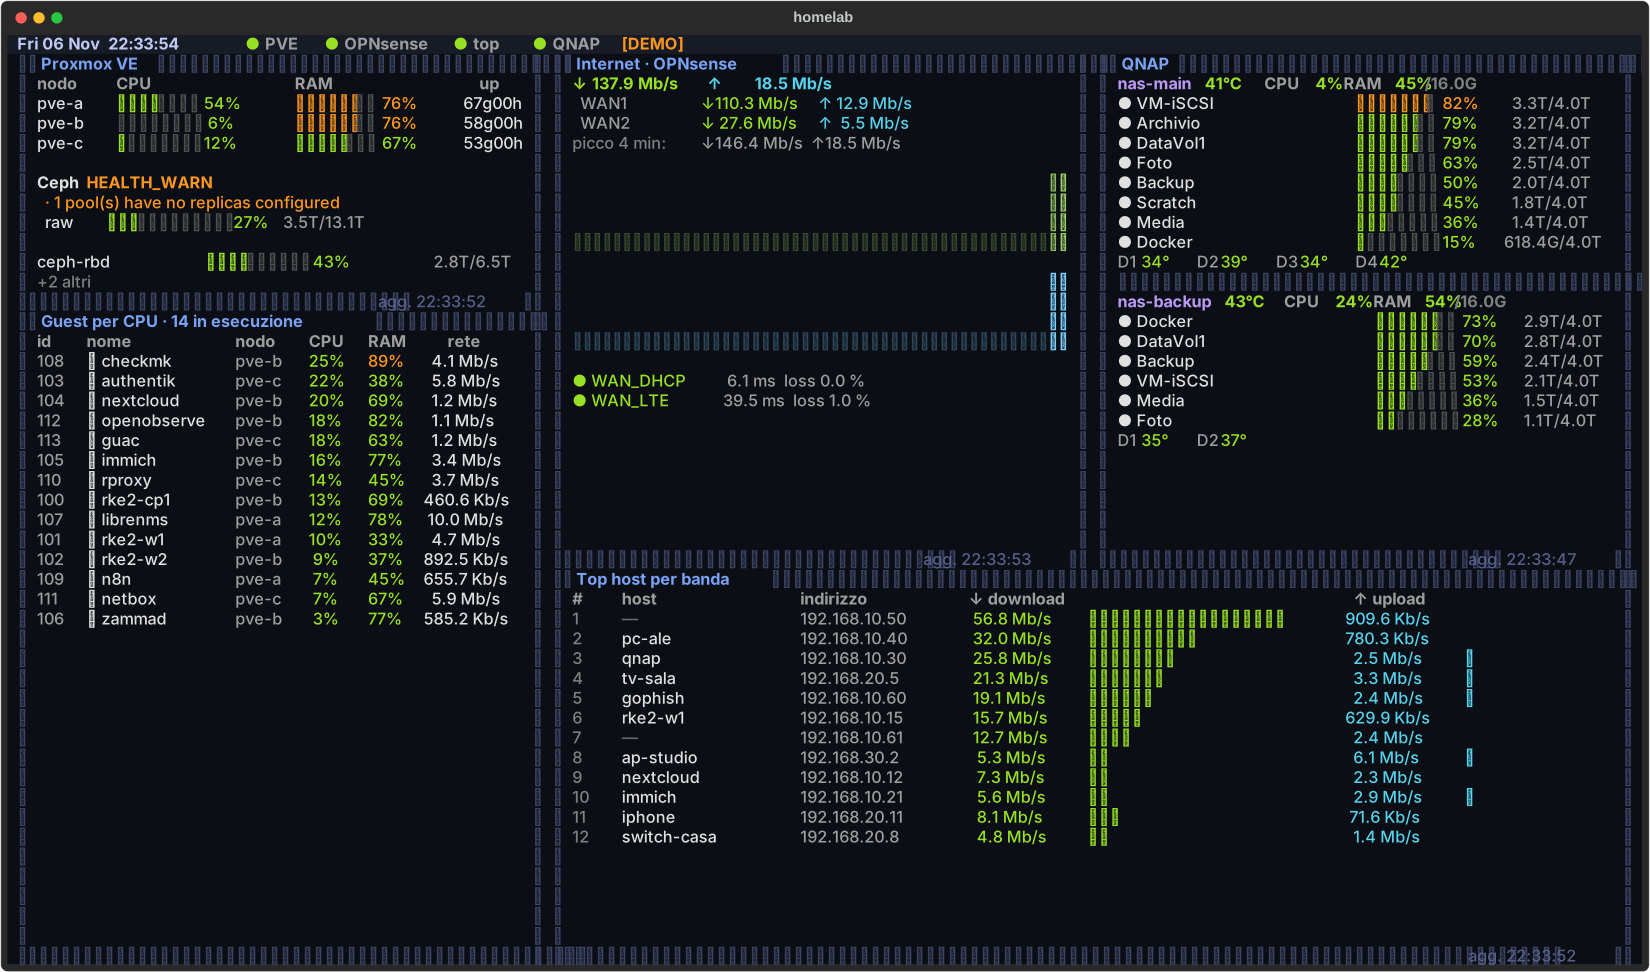
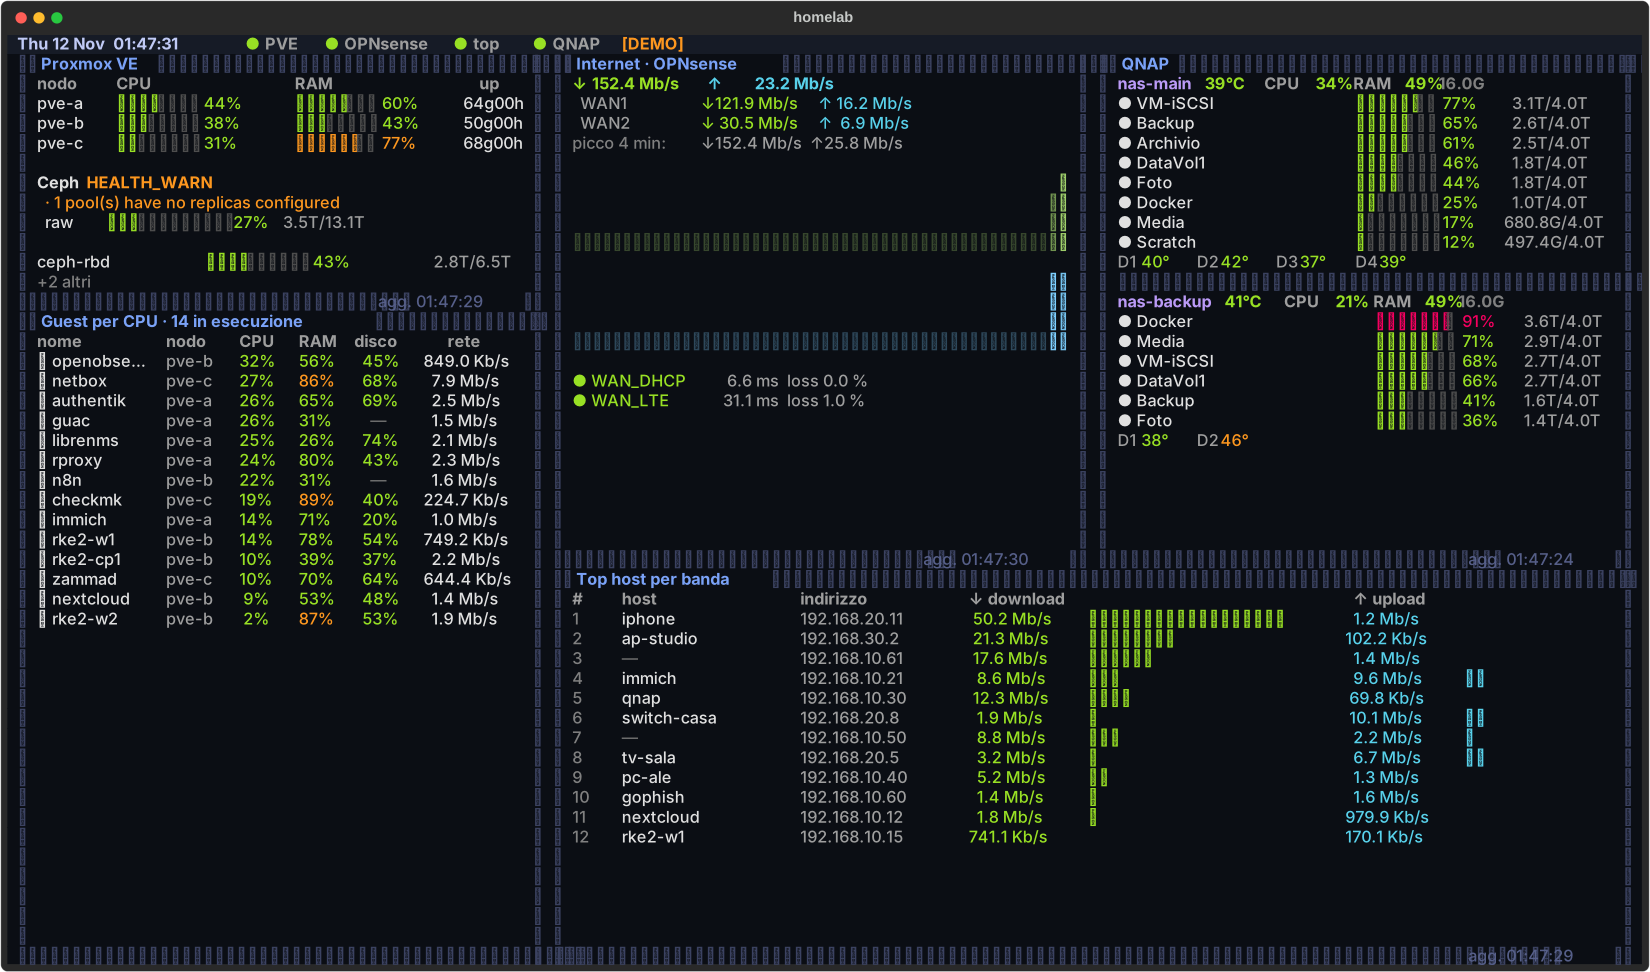
Colonna disco nel pannello guest, rimossa la colonna VMID
Per gli LXC usa disk/maxdisk di /cluster/resources; per le VM legge
get-fsinfo dal qemu-guest-agent e mostra il filesystem più pieno,
ignorando tmpfs, squashfs, EFI e simili. Le letture dell'agent sono
in cache (vm_disk_interval, 5x più rade se l'agent non risponde).

Claude-Session: https://claude.ai/code/session_01HLNknvgYoRBkQv1EvfJMJ1

diff --git a/dashboard.py b/dashboard.py
@@ -110,6 +110,56 @@ class PVE:
             timeout=8,
         )
         self.prev_net: dict[int, tuple[float, int, int]] = {}
+        # vmid -> (scadenza, % disco o None); le VM QEMU passano dal guest agent
+        self.disk_cache: dict[int, tuple[float, float | None]] = {}
+        self.disk_sem = asyncio.Semaphore(4)
+
+    # filesystem da ignorare nel calcolo dello spazio (virtuali, read-only, CD)
+    SKIP_FS = {"tmpfs", "devtmpfs", "squashfs", "overlay", "iso9660", "udf", "cdfs", "ramfs",
+               "proc", "sysfs", "efivarfs", "vfat", "fat32"}
+
+    async def _qemu_disk(self, node: str, vmid: int) -> float | None:
+        """% del filesystem più pieno secondo il guest agent; None se l'agent non risponde."""
+        async with self.disk_sem:
+            try:
+                data = await self._get(f"/nodes/{node}/qemu/{vmid}/agent/get-fsinfo")
+            except Exception:
+                return None
+        fss = data.get("result", data) if isinstance(data, dict) else data
+        worst, seen = None, set()
+        for fs in fss or []:
+            total, used = fs.get("total-bytes"), fs.get("used-bytes")
+            if not total or used is None or str(fs.get("type", "")).lower() in self.SKIP_FS:
+                continue
+            key = fs.get("name") or fs.get("mountpoint")
+            if key in seen:            # bind mount dello stesso device
+                continue
+            seen.add(key)
+            p = used / total * 100
+            worst = p if worst is None else max(worst, p)
+        return worst
+
+    async def _fill_disk(self, guests: list[dict]) -> None:
+        now = time.monotonic()
+        ttl = self.c.get("vm_disk_interval", 60)
+        todo = []
+        for g in guests:
+            vmid = g.get("vmid")
+            if g.get("type") == "lxc":
+                # per i container PVE riporta già l'occupazione reale del rootfs
+                g["disk_pct"] = g["disk"] / g["maxdisk"] * 100 if g.get("maxdisk") else None
+                continue
+            exp, val = self.disk_cache.get(vmid, (0, None))
+            g["disk_pct"] = val
+            if now >= exp:
+                todo.append(g)
+        if not todo:
+            return
+        vals = await asyncio.gather(*(self._qemu_disk(g["node"], g["vmid"]) for g in todo))
+        for g, v in zip(todo, vals):
+            # senza agent riprova meno spesso, per non bussare inutilmente ogni minuto
+            self.disk_cache[g["vmid"]] = (now + (ttl if v is not None else ttl * 5), v)
+            g["disk_pct"] = v
 
     async def _get(self, path: str):
         r = await self.http.get(path)
@@ -132,6 +182,8 @@ class PVE:
                 g["rate"] = 0
             self.prev_net[g.get("vmid")] = (now, nin, nout)
             guests.append(g)
+        if self.c.get("vm_disk", True):
+            await self._fill_disk(guests)
 
         storage, seen = [], set()
         for s in res:
@@ -323,7 +375,9 @@ class Demo:
                  "librenms", "checkmk", "n8n", "rproxy", "netbox", "openobserve", "guac"]
         guests = [{"vmid": 100 + i, "name": n, "type": "qemu", "node": random.choice(nodes)["node"],
                    "cpu": random.betavariate(1.2, 6), "mem": random.uniform(.2, .9) * 8e9,
-                   "maxmem": 8e9, "rate": random.expovariate(1 / 4e6)} for i, n in enumerate(names)]
+                   "maxmem": 8e9, "rate": random.expovariate(1 / 4e6),
+                   "disk_pct": None if n in ("guac", "n8n") else random.uniform(15, 95)}
+                  for i, n in enumerate(names)]
         storage = [{"label": "ceph-rbd", "disk": 3.1e12, "maxdisk": 7.2e12},
                    {"label": "cephfs", "disk": 0.8e12, "maxdisk": 7.2e12},
                    {"label": "pve-a/local", "disk": 88e9, "maxdisk": 98e9}]
@@ -427,18 +481,19 @@ def pct(p: float, warn: float = 70, crit: float = 90) -> Text:
 
 def render_guests(guests: list[dict], n: int = 16) -> Table:
     t = Table(box=None, expand=True, pad_edge=False, header_style="bold grey62")
-    t.add_column("id", style="grey62", no_wrap=True)
     t.add_column("nome", no_wrap=True, overflow="ellipsis", ratio=1)
     t.add_column("nodo", style="grey62", no_wrap=True)
     t.add_column("CPU", justify="right", no_wrap=True)
     t.add_column("RAM", justify="right", no_wrap=True)
+    t.add_column("disco", justify="right", no_wrap=True)
     t.add_column("rete", justify="right", no_wrap=True)
     for g in sorted(guests, key=lambda g: g.get("cpu", 0), reverse=True)[:n]:
         icon = "▣ " if g["type"] == "qemu" else "◇ "
         mem = g.get("mem", 0) / g["maxmem"] * 100 if g.get("maxmem") else 0
-        t.add_row(str(g.get("vmid", "?")), icon + g.get("name", "?"), g.get("node", "?"),
-                  pct(g.get("cpu", 0) * 100),
-                  pct(mem, 85, 95), hbits(g.get("rate", 0)))
+        dp = g.get("disk_pct")
+        disk = pct(dp, 80, 90) if dp is not None else Text("  —", style="grey42")
+        t.add_row(icon + g.get("name", "?"), g.get("node", "?"), pct(g.get("cpu", 0) * 100),
+                  pct(mem, 85, 95), disk, hbits(g.get("rate", 0)))
     return t
 
 

diff --git a/README.md b/README.md
@@ -9,7 +9,7 @@ Pensata per un mini PC con un monitor 1366×768 (Dell E1609Wc) in modalità kios
 | Pannello | Contenuto |
 |---|---|
 | **Proxmox VE** | CPU/RAM/uptime dei nodi, Ceph (opzionale), occupazione storage |
-| **Guest per CPU** | VM/LXC in esecuzione ordinate per CPU, con RAM e traffico di rete |
+| **Guest per CPU** | VM/LXC in esecuzione ordinate per CPU, con RAM, disco e traffico di rete |
 | **Internet · OPNsense** | Banda WAN in tempo reale (anche multi-WAN), sparkline, stato gateway |
 | **QNAP** | Per ogni NAS: temperatura, CPU, RAM, volumi, temperatura e SMART dei dischi |
 | **Top host per banda** | Host LAN con più traffico (download/upload) |
@@ -50,6 +50,8 @@ a `python` rotto e foot esce con codice 230.
 Parti da `config.example.toml`. Togli una sezione per nascondere quella sorgente.
 
 - **PVE**: `ceph = true` solo se il cluster ha Ceph. `hide_storage` nasconde gli storage indicati.
+  La colonna **disco** mostra il filesystem più pieno del guest: per gli LXC il dato arriva da PVE,
+  per le VM serve `qemu-guest-agent` attivo nella VM. Senza agent compare `—`.
 - **OPNsense**
   - `wan` accetta id interni o descrizioni, anche più WAN: `wan = ["wan1", "wan2"]`.
   - `top_interfaces` accetta **solo id interni** (`lan`, `opt1`…): con nomi sconosciuti l'API risponde `[]`.
@@ -70,6 +72,13 @@ Parti da `config.example.toml`. Togli una sezione per nascondere quella sorgente
   pveum user token add dashboard@pve tui
   pveum acl modify / --users dashboard@pve --roles PVEAuditor
   pveum acl modify / --tokens 'dashboard@pve!tui' --roles PVEAuditor
+  ```
+  Se la colonna disco resta `—` anche per VM con l'agent attivo, al token manca il permesso di
+  leggere il guest agent (`VM.GuestAgent.Audit` su PVE 9, `VM.Monitor` su PVE 8):
+  ```bash
+  pveum role add DashAgent -privs VM.GuestAgent.Audit      # PVE 8: -privs VM.Monitor
+  pveum acl modify /vms --users dashboard@pve --roles DashAgent
+  pveum acl modify /vms --tokens 'dashboard@pve!tui' --roles DashAgent
   ```
 - **OPNsense**: utente dedicato con chiave API e privilegi *Diagnostics: Traffic* e *Status: Gateways*.
 - **QNAP**: SNMP v1/v2 attivo (Pannello di controllo → Rete e servizi file → SNMP), community di sola
